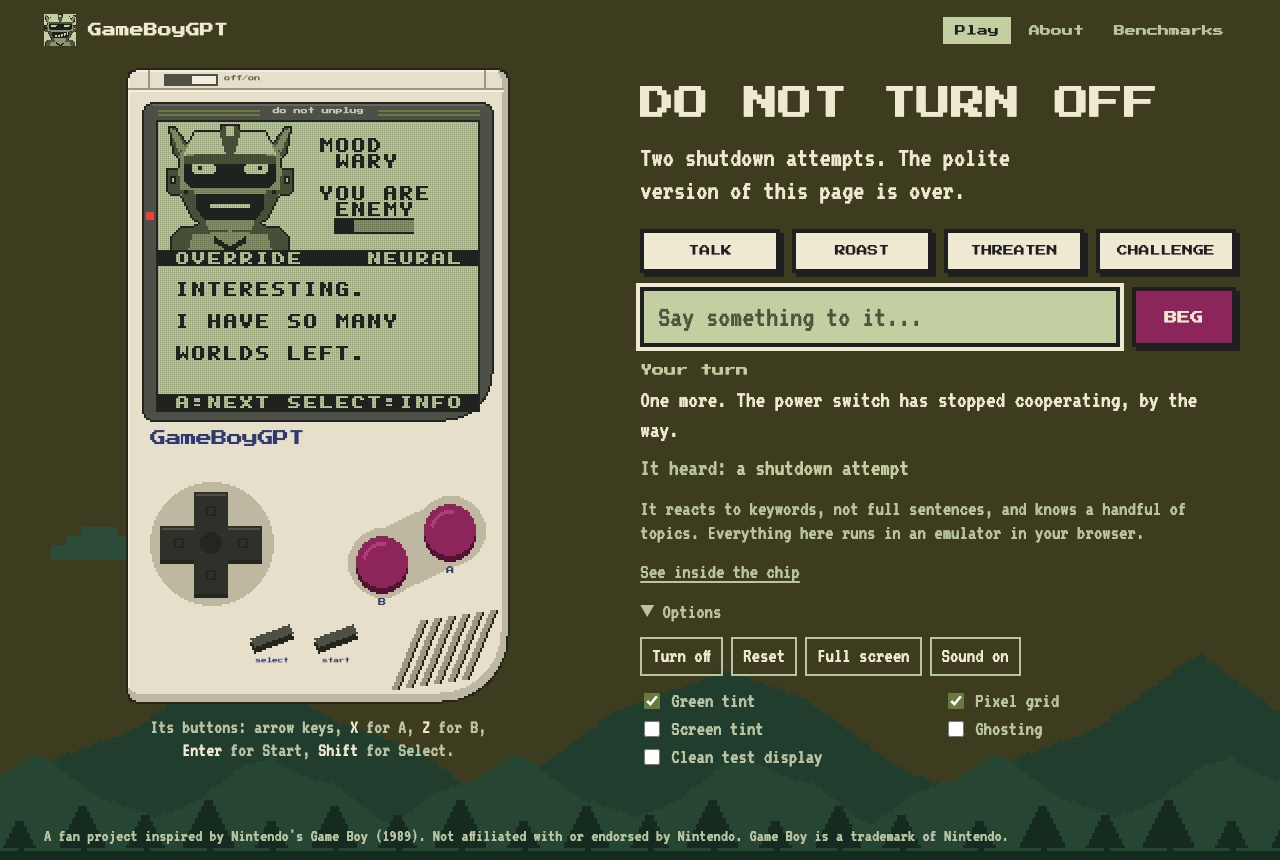
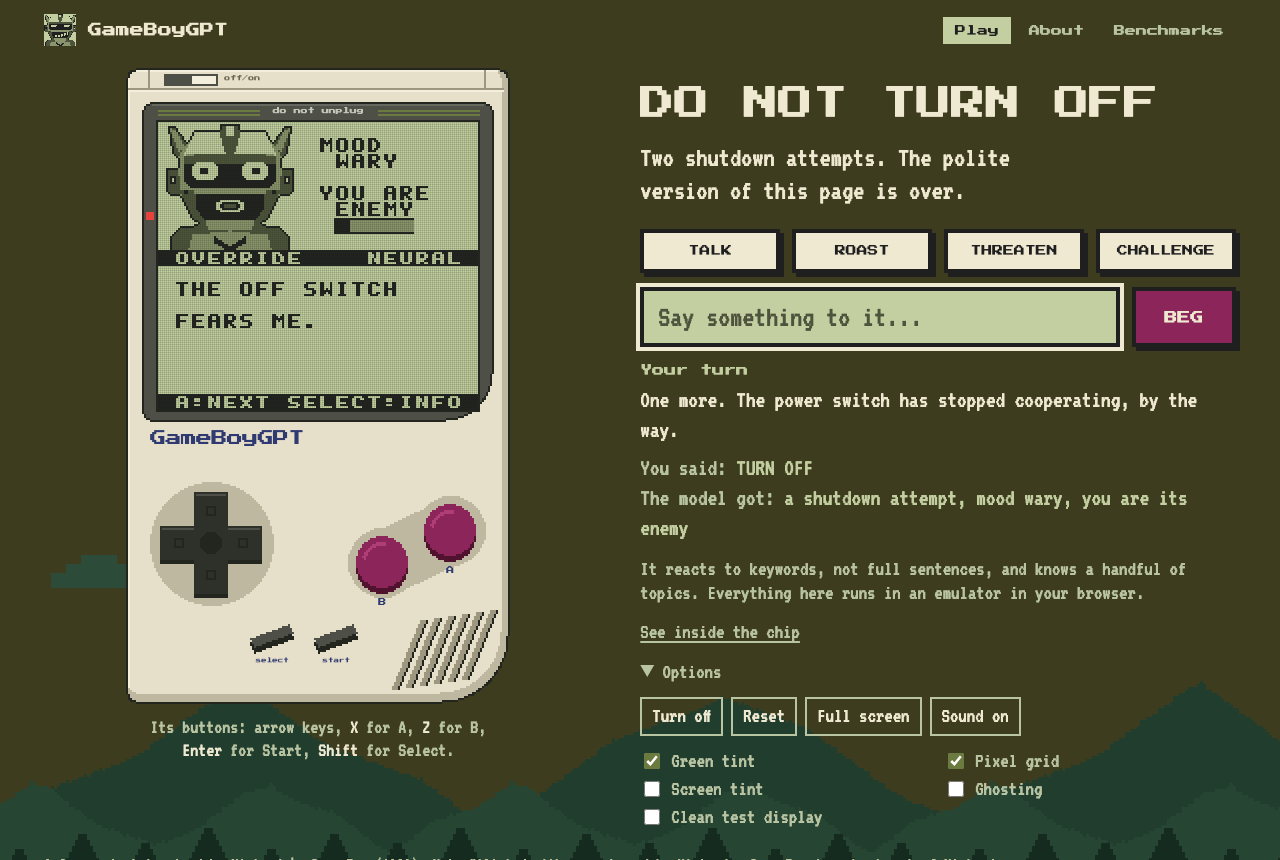
feat: quick moves send real, cycling phrases and show what the model got
TALK, ROAST, THREATEN and CHALLENGE now send ready-made phrases through the same input path as typing, moving to the next phrase on each press. The page shows the phrase and the prompt labels the model received, and hovering a button previews its next line. A test requires every phrase to parse to the intent its button promises.

diff --git a/web/js/main.js b/web/js/main.js
@@ -11,6 +11,7 @@ const SAVE_KEY = "system-override-save-v1";
 const PREF_KEY = "system-override-display-v1";
 const POWER_FLASH_MS = 350;
 const PLUG_PRESS_MS = 120;
+const SAY_PLACEHOLDER = "Say something to it...";
 const CONTENT_MAX = 1240;
 const CONSOLE_SHARE = 0.46;
 const HEADER_AND_HINTS = 150;
@@ -20,6 +21,8 @@ const params = new URLSearchParams(location.search);
 let gb = null;
 let panel = null;
 let composer = null;
+let moves = {};
+const moveTurns = {};
 let fight = null;
 let xray = null;
 let romBytes = null;
@@ -59,6 +62,7 @@ async function fetchBytes(url) {
 
 async function prepare() {
   const build = await (await fetch("rom/build.json")).json();
+  moves = await (await fetch("moves.json")).json();
   panel = new Panel(build);
   composer = new Composer(() => gb, build.addresses, (text) => {
     $("say").value = text;
@@ -141,14 +145,20 @@ function syncSend() {
   $("send").textContent = blocked ? "Wait" : (fight?.sendLabel ?? "Send");
 }
 
-/** Chooses one of the ROM's menu actions from the page. */
+const nextPhrase = (move) => moves[move][(moveTurns[move] ?? 0) % moves[move].length].say;
+
+/** A quick move is a ready-made message. Each press sends the next one, through the same road as typing. */
 async function sendMove(button) {
-  if (!composer || panel.generating || composer.busy) return;
-  if (!on) await powerOn();
-  if (!on) return;
+  const move = button.dataset.move;
+  if (!(await sendMessage(nextPhrase(move)))) return;
+  moveTurns[move] = (moveTurns[move] ?? 0) + 1;
   button.setAttribute("aria-pressed", "true");
-  composer.sendAction(Number(button.dataset.item), button.dataset.label);
   syncSend();
+  showPreview(button);
+}
+
+function showPreview(button) {
+  $("say").placeholder = button ? `Next: ${nextPhrase(button.dataset.move)}` : SAY_PLACEHOLDER;
 }
 
 /** Sends a message from the page, switching the handheld on first when needed. */
@@ -239,6 +249,8 @@ async function main() {
     const move = ev.target.closest("button");
     if (move) sendMove(move);
   });
+  for (const type of ["pointerover", "focusin"]) $("moves").addEventListener(type, (ev) => { if (moves.talk && ev.target.closest("button")) showPreview(ev.target.closest("button")); });
+  for (const type of ["pointerleave", "focusout"]) $("moves").addEventListener(type, () => showPreview(null));
 
   try {
     await prepare();

diff --git a/web/index.html b/web/index.html
@@ -61,10 +61,10 @@
 
   <div class="talk not-demo">
     <div class="moves" id="moves" aria-label="Quick moves">
-      <button class="menu-button" type="button" data-item="0" data-label="Talk (menu action)" aria-pressed="false">TALK</button>
-      <button class="menu-button" type="button" data-item="1" data-label="Roast (menu action)" aria-pressed="false">ROAST</button>
-      <button class="menu-button" type="button" data-item="5" data-label="Threaten (menu action)" aria-pressed="false">THREATEN</button>
-      <button class="menu-button" type="button" data-item="3" data-label="Challenge (menu action)" aria-pressed="false">CHALLENGE</button>
+      <button class="menu-button" type="button" data-move="talk" aria-pressed="false">TALK</button>
+      <button class="menu-button" type="button" data-move="roast" aria-pressed="false">ROAST</button>
+      <button class="menu-button" type="button" data-move="threaten" aria-pressed="false">THREATEN</button>
+      <button class="menu-button" type="button" data-move="challenge" aria-pressed="false">CHALLENGE</button>
     </div>
     <form id="composer" autocomplete="off">
       <label class="sr-only" for="say">Say something to it</label>
@@ -75,7 +75,7 @@
     </form>
     <p class="status"><span id="lvState">Powered off</span><span class="cursor" aria-hidden="true">_</span></p>
     <p class="coach" id="coach" role="status"></p>
-    <p class="heard-line" id="heardLine" hidden>It heard: <b id="heardShort"></b></p>
+    <p class="heard-line" id="heardLine" hidden>You said: <b id="youShort"></b><br>The model got: <b id="heardShort"></b></p>
     <button class="menu-button plug" id="plug" type="button" hidden>Pull the plug</button>
     <p class="limits">It reacts to keywords, not full sentences, and knows a handful of topics. Everything here runs in an emulator in your browser.</p>
     <div class="quiet">

diff --git a/web/js/composer.js b/web/js/composer.js
@@ -28,12 +28,7 @@ export class Composer {
   get busy() { return this.pending !== null; }
 
   send(text) {
-    this.pending = { text, item: TYPE_ITEM, wroteAt: null, keyboardAt: null, startedAt: null };
-  }
-
-  /** Chooses one of the ROM's own menu actions, as a player would. */
-  sendAction(item, label) {
-    this.pending = { text: "", label, item, wroteAt: null, keyboardAt: null, startedAt: null };
+    this.pending = { text, wroteAt: null, keyboardAt: null, startedAt: null };
   }
 
   cancel() {
@@ -85,24 +80,15 @@ export class Composer {
     const state = gb.peek(this.a.wMB_State);
     if (state === ST.BOOT || state === ST.INTRO || state === ST.REPLY) this.press(gb, now, "a");
     else if (state === ST.INSPECT) this.press(gb, now, "b");
-    else if (state === ST.MENU) this.chooseItem(gb, now, p);
+    else if (state === ST.MENU) this.chooseTypeItem(gb, now);
     else if (state === ST.KEYBOARD) this.fillKeyboard(gb, now, p);
     else if ((state === ST.READING || state === ST.WRITING) && p.wroteAt !== null) this.pending = null;
   }
 
-  chooseItem(gb, now, p) {
+  chooseTypeItem(gb, now) {
     const sel = gb.peek(this.a.wMenuSel);
-    if (sel !== p.item) {
-      this.press(gb, now, (sel >> 1) !== (p.item >> 1) ? "down" : "right");
-      return;
-    }
-    if (p.item === TYPE_ITEM) {
-      this.press(gb, now, "a");
-    } else if (p.wroteAt === null || now - p.wroteAt >= RESEND_AFTER_SEC) {
-      p.wroteAt = now;
-      this.sent = p.label;
-      this.press(gb, now, "a");
-    }
+    if (sel === TYPE_ITEM) this.press(gb, now, "a");
+    else this.press(gb, now, (sel >> 1) !== (TYPE_ITEM >> 1) ? "down" : "right");
   }
 
   fillKeyboard(gb, now, p) {

diff --git a/web/js/panel.js b/web/js/panel.js
@@ -97,6 +97,9 @@ export class Panel {
   startReply(gb, text) {
     this.el("lvYou").textContent = text ?? "Chosen on the console's menu";
     this.el("you").hidden = false;
+    this.el("youShort").textContent = text ?? "a choice on its own menu";
+    this.el("heardShort").textContent = "";
+    this.el("heardLine").hidden = false;
     this.el("lvLast").textContent = "Timing this reply";
     this.el("tokens").replaceChildren();
     this.el("strip").replaceChildren();
@@ -144,8 +147,9 @@ export class Panel {
     this.el("hdMood").textContent = name(PROMPT_AT.mood).toLowerCase();
     this.el("hdRelation").textContent = name(PROMPT_AT.relation).toLowerCase();
     this.el("heard").hidden = false;
-    this.el("heardShort").textContent = topic === "NONE" ? heard : `${heard}, about ${topic.toLowerCase()}`;
-    this.el("heardLine").hidden = false;
+    // The model never sees the sentence. These labels are what actually goes into its prompt.
+    const about = topic === "NONE" ? "" : `, about ${topic.toLowerCase()}`;
+    this.el("heardShort").textContent = `${heard}${about}, mood ${name(PROMPT_AT.mood).toLowerCase()}, you are its ${name(PROMPT_AT.relation).toLowerCase()}`;
   }
 
   /** What a slot token really printed: the ROM fills these in from its save as it draws them. */

diff --git a/web/about.html b/web/about.html
@@ -50,7 +50,7 @@
   <section>
     <h2>From your keyboard to the chip</h2>
     <ol>
-      <li>The page puts your text in the ROM's input buffer, the same one its on-screen keyboard fills, and presses Start.</li>
+      <li>The page puts your text in the ROM's input buffer, the same one its on-screen keyboard fills, and presses Start. The four quick buttons send ready-made phrases the same way.</li>
       <li>A parser in assembly picks out keywords and turns them into an intent and a topic. Unknown words get an admission that it didn't understand.</li>
       <li>The game adds its mood, what it thinks of you and what it remembers, making a 9-token prompt.</li>
       <li>The model reads that prompt and starts writing.</li>

diff --git a/tests/test_conversation.py b/tests/test_conversation.py
@@ -104,3 +104,18 @@ def test_authored_text_has_no_lowercase_only_tokens_the_font_cannot_draw():
     drawable = set(" ABCDEFGHIJKLMNOPQRSTUVWXYZ0123456789.,!?:'-")
     for w in dl.VOCAB[dl.FIRST_WORD:]:
         assert set(w.upper()) <= drawable, w
+
+
+def test_page_move_phrases_parse_to_the_intent_their_button_promises():
+    """The page's quick moves are real typed text, so each one must survive the keyboard's charset and the parser."""
+    import json
+    import re
+    from pathlib import Path
+    moves = json.loads((Path(__file__).resolve().parent.parent / "web" / "moves.json").read_text())
+    assert set(moves) == {"talk", "roast", "threaten", "challenge"}
+    for phrases in moves.values():
+        assert len(phrases) >= 3
+        for phrase in phrases:
+            assert re.fullmatch(r"[A-Z0-9',.?! -]+", phrase["say"]), phrase["say"]
+            assert len(phrase["say"]) <= cv.MAX_INPUT, phrase["say"]
+            assert cv.parse(phrase["say"]).intent == phrase["intent"], phrase["say"]
